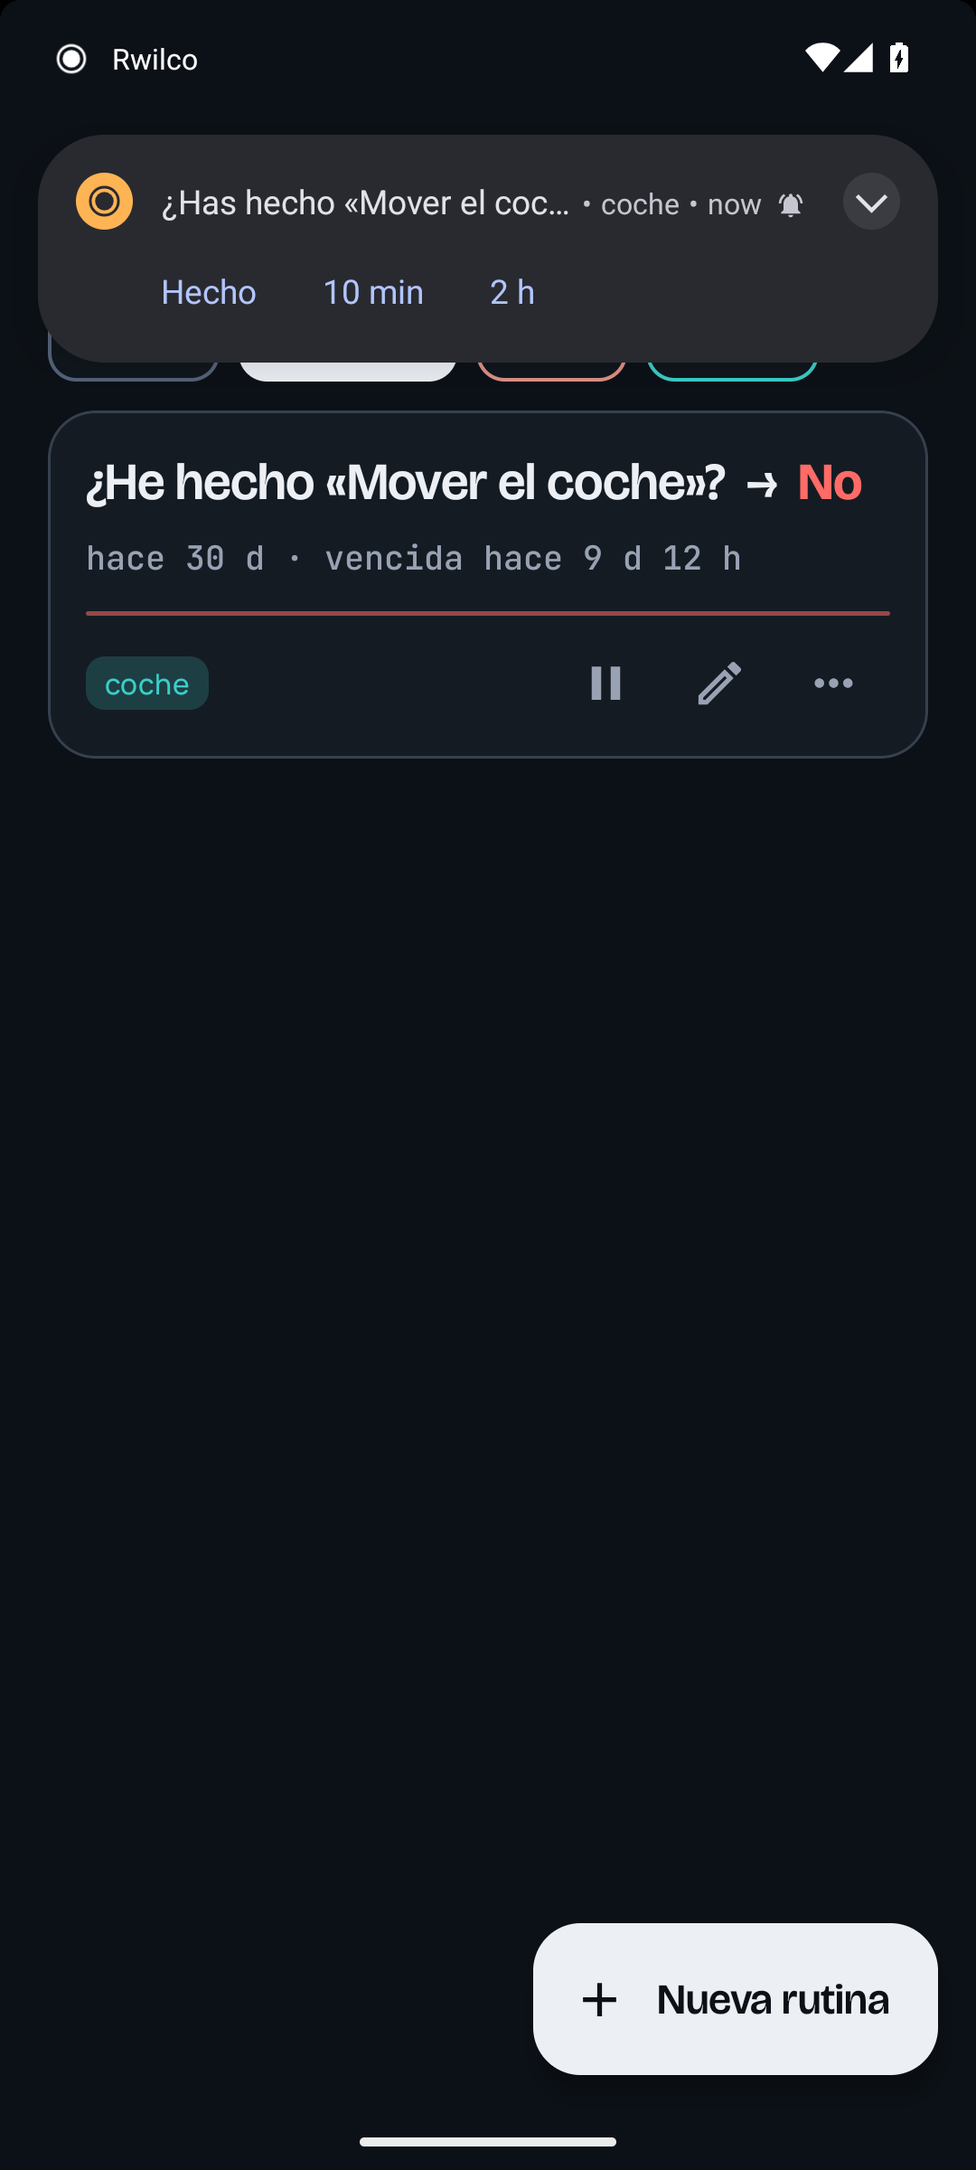
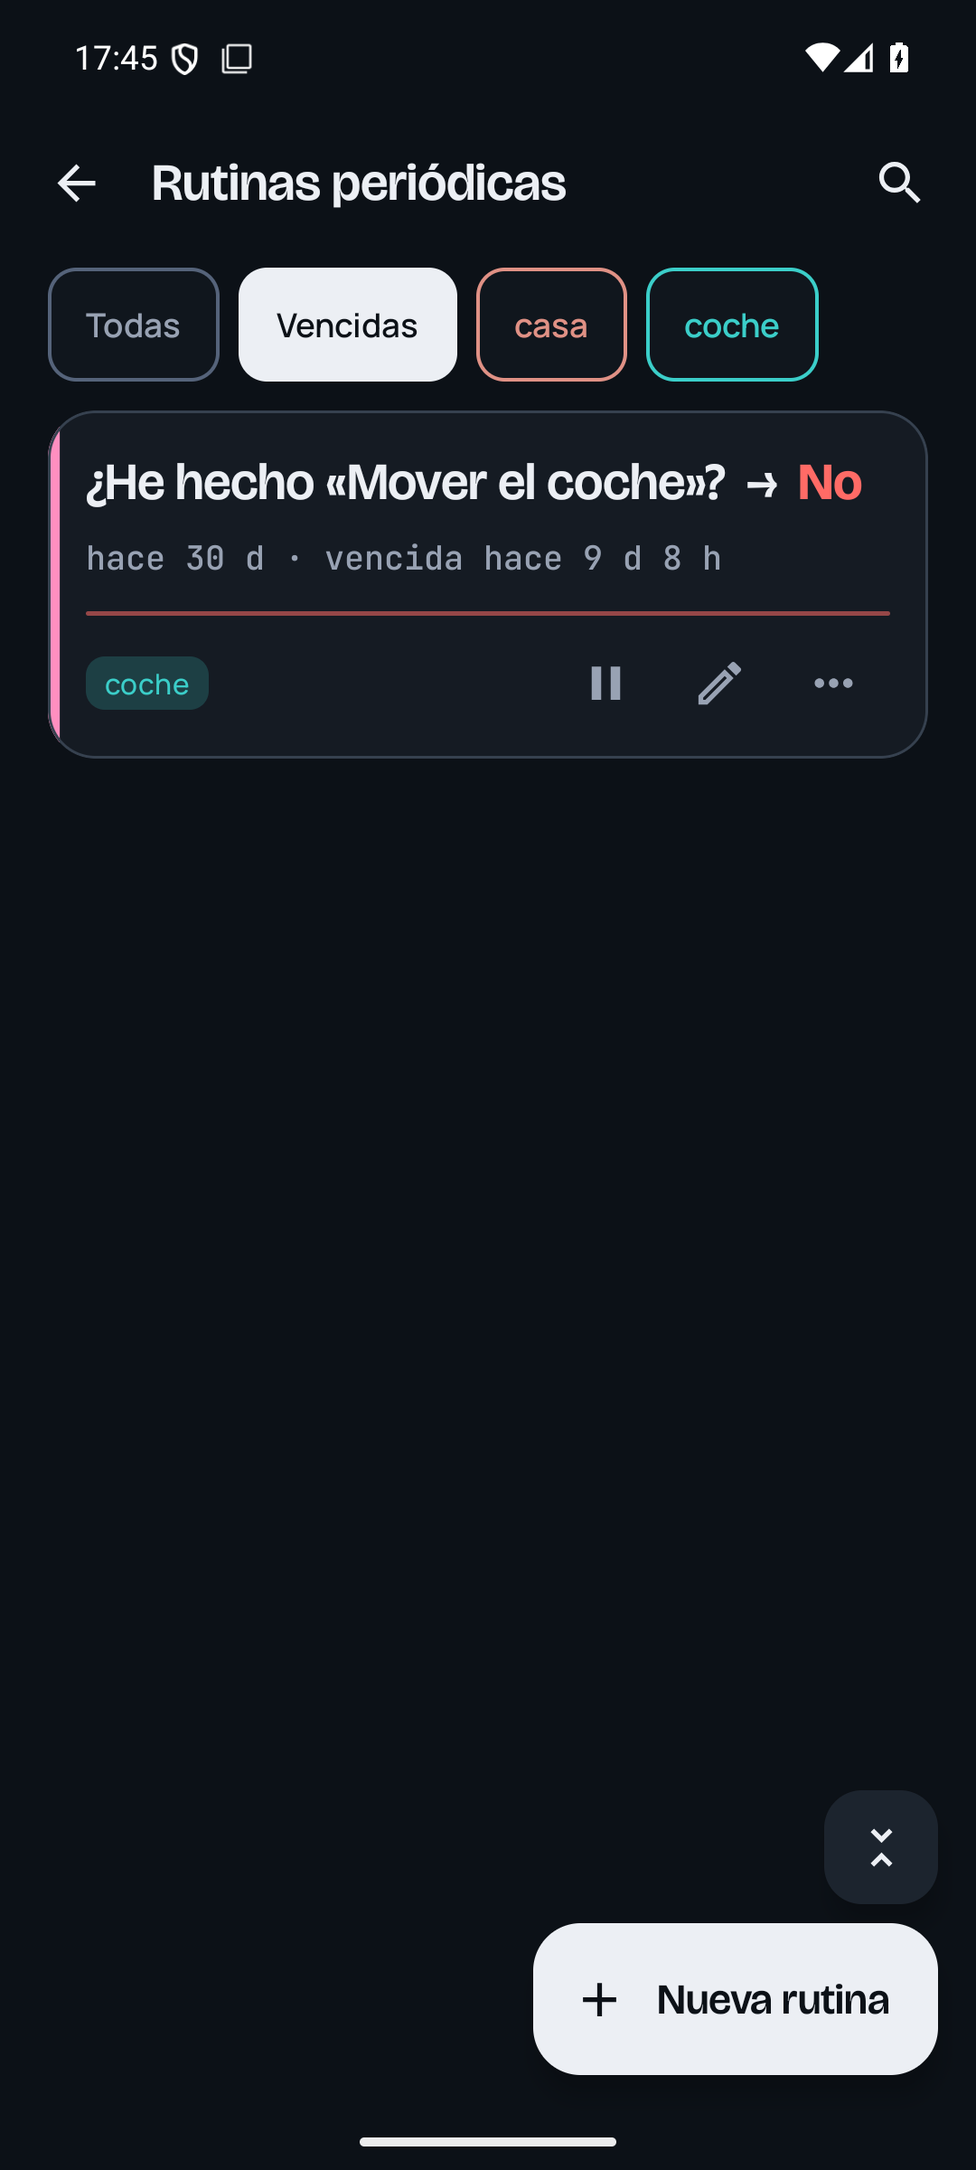
0.105.0: the routines fold away, and the screen has a colour of its own
Two things the owner asked for after a first look at the list.

- **The fold**, which is Home's and reuses every piece of it: a small
  button over "Nueva rutina" toggles `AppSettings.compactRoutines` (its
  own flag, because the two lists are read for different things), a tap
  on a card is the fold both ways, and the exceptions to the mode are a
  flipped set in the ViewModel through the same `shownOpen` Home uses. A
  folded routine is its words and the track of its plazo — no count, no
  controls, no tags: what a folded list answers is "how much is owed and
  how badly", and a column of tracks is exactly that. The form stays
  behind the pencil on the open card. Arriving from Home's overdue line
  opens the row it lands on.
- **The colour**: `routineColor` down the leading edge of every card
  (the rail `RwilcoCard` already draws for Home's tags) and in the track
  while the plazo is still running — red once it has run out, grey while
  paused. The screen was grey cards with a grey hairline each, which
  said nothing at all until you read it.

Claude-Session: https://claude.ai/code/session_01CYx8csJHXWQKThNn1UrwSw

diff --git a/app/src/main/kotlin/dev/rwilco/ui/routines/RoutinesScreen.kt b/app/src/main/kotlin/dev/rwilco/ui/routines/RoutinesScreen.kt
@@ -12,6 +12,7 @@ import androidx.compose.foundation.layout.calculateStartPadding
 import androidx.compose.foundation.layout.fillMaxSize
 import androidx.compose.foundation.layout.fillMaxWidth
 import androidx.compose.foundation.layout.height
+import androidx.compose.foundation.layout.sizeIn
 import androidx.compose.foundation.layout.heightIn
 import androidx.compose.foundation.layout.padding
 import androidx.compose.foundation.layout.safeDrawing
@@ -29,6 +30,8 @@ import androidx.compose.material.icons.outlined.Pause
 import androidx.compose.material.icons.outlined.PlayArrow
 import androidx.compose.material.icons.outlined.ErrorOutline
 import androidx.compose.material.icons.outlined.Search
+import androidx.compose.material.icons.outlined.UnfoldLess
+import androidx.compose.material.icons.outlined.UnfoldMore
 import androidx.compose.material.icons.outlined.SearchOff
 import androidx.compose.material3.ExtendedFloatingActionButton
 import androidx.compose.material3.Icon
@@ -38,6 +41,7 @@ import androidx.compose.material3.MaterialTheme
 import androidx.compose.material3.Scaffold
 import androidx.compose.material3.Surface
 import androidx.compose.material3.Text
+import androidx.compose.material3.SmallFloatingActionButton
 import androidx.compose.runtime.Composable
 import androidx.compose.runtime.LaunchedEffect
 import androidx.compose.runtime.getValue
@@ -78,6 +82,7 @@ import dev.rwilco.ui.home.SwipeableCard
 import dev.rwilco.ui.home.UndoDeleteRow
 import dev.rwilco.ui.theme.MonoStyles
 import dev.rwilco.ui.theme.Tokens
+import dev.rwilco.ui.theme.routineColor
 import dev.rwilco.ui.theme.tagColor
 import java.time.Clock
 import java.time.Duration
@@ -108,6 +113,8 @@ fun RoutinesScreen(
     onKeepAsPreset: (String) -> Unit,
 ) {
     val state by viewModel.state.collectAsStateWithLifecycle()
+    val compact by viewModel.compact.collectAsStateWithLifecycle()
+    val flippedRows by viewModel.flippedRows.collectAsStateWithLifecycle()
     val pendingDelete by viewModel.pendingDelete.collectAsStateWithLifecycle()
     val snoozeCustomMinutes by viewModel.snoozeCustomMinutes.collectAsStateWithLifecycle()
     val defaultTime by viewModel.defaultTime.collectAsStateWithLifecycle()
@@ -173,6 +180,9 @@ fun RoutinesScreen(
         // Everything the list draws above the rows, in the order it draws them.
         val leading = (if (filtersShown) 1 else 0) + (if (pendingDelete != null) 1 else 0)
         listState.animateScrollToItem(leading + row)
+        // And open, whatever the mode: Home's line named this one, so it is the one somebody
+        // came here to read.
+        viewModel.expandRow(focus)
         landed = true
     }
 
@@ -208,17 +218,35 @@ fun RoutinesScreen(
         },
         floatingActionButton = {
             val haptics = Tokens.haptics
-            // The screen's one primary action, in the thumb zone, wearing the inverted neutral
-            // every primary in the app wears: amber is what fires next, and this is a door.
-            ExtendedFloatingActionButton(
-                onClick = { haptics.perform(HapticFeedbackType.Confirm); onNew() },
-                icon = { Icon(Icons.Outlined.Add, contentDescription = null) },
-                text = { Text(stringResource(R.string.routines_new), style = MaterialTheme.typography.titleMedium) },
-                containerColor = MaterialTheme.colorScheme.onSurface,
-                contentColor = MaterialTheme.colorScheme.surface,
-                shape = MaterialTheme.shapes.large,
-                modifier = Modifier.heightIn(min = Tokens.sizes.primary),
-            )
+            Column(horizontalAlignment = Alignment.End, verticalArrangement = Arrangement.spacedBy(spacing.sm)) {
+                // Above "Nueva rutina", and the smaller of the two: this one is about *reading*
+                // the list and that one is the screen's job. The same button Home carries, in
+                // the same corner, saying the same words.
+                SmallFloatingActionButton(
+                    onClick = { haptics.perform(HapticFeedbackType.ContextClick); viewModel.setCompact(!compact) },
+                    containerColor = MaterialTheme.colorScheme.surfaceContainerHigh,
+                    contentColor = MaterialTheme.colorScheme.onSurface,
+                    shape = MaterialTheme.shapes.medium,
+                    modifier = Modifier.sizeIn(minWidth = Tokens.sizes.touch, minHeight = Tokens.sizes.touch),
+                ) {
+                    Icon(
+                        imageVector = if (compact) Icons.Outlined.UnfoldMore else Icons.Outlined.UnfoldLess,
+                        contentDescription = stringResource(if (compact) R.string.home_compact_off else R.string.home_compact_on),
+                    )
+                }
+                // The screen's one primary action, in the thumb zone, wearing the inverted
+                // neutral every primary in the app wears: amber is what fires next, and this
+                // is a door.
+                ExtendedFloatingActionButton(
+                    onClick = { haptics.perform(HapticFeedbackType.Confirm); onNew() },
+                    icon = { Icon(Icons.Outlined.Add, contentDescription = null) },
+                    text = { Text(stringResource(R.string.routines_new), style = MaterialTheme.typography.titleMedium) },
+                    containerColor = MaterialTheme.colorScheme.onSurface,
+                    contentColor = MaterialTheme.colorScheme.surface,
+                    shape = MaterialTheme.shapes.large,
+                    modifier = Modifier.heightIn(min = Tokens.sizes.primary),
+                )
+            }
         },
     ) { padding ->
         val direction = LocalLayoutDirection.current
@@ -284,7 +312,13 @@ fun RoutinesScreen(
                     )
                 }
             }
-            items(state.rows, key = { it.id }, contentType = { "routine" }) { row ->
+            items(
+                state.rows,
+                key = { it.id },
+                // Two shapes, two content types: a folded row and an open one recycle nothing
+                // useful from each other.
+                contentType = { if (compact != (it.id in flippedRows)) "routine-compact" else "routine" },
+            ) { row ->
                 SwipeableCard(
                     onDone = { viewModel.markDone(row.id) },
                     onDelete = { viewModel.delete(row.id) },
@@ -293,6 +327,8 @@ fun RoutinesScreen(
                     RoutineCard(
                         row = row,
                         now = now,
+                        compact = compact != (row.id in flippedRows),
+                        onToggleCompact = { viewModel.flipRow(row.id) },
                         onOpen = { onOpen(row.id) },
                         onPause = { viewModel.togglePause(row.id, row.paused) },
                         onMore = { actingOn = row.id },
@@ -365,6 +401,18 @@ private val RoutineFilter.key: String
  * One routine: the question, the answer, the count, the track, the tags. The answer is set in
  * the words' own type at the end of the question, because it is part of the sentence; "No"
  * wears the error ink, which is what "the span ran out" looks like everywhere in this app.
+ *
+ * **[compact] is the same routine as its words and its track** — no count, no controls, no
+ * tags. What a folded list answers is "how much is owed, and how badly", and the track answers
+ * exactly that: how far through the plazo each one is, in a column you read down rather than
+ * across. The tap is the fold, both ways, as it is on Home ([dev.rwilco.ui.home.ReminderCard]);
+ * the form stays behind the pencil on the open card, which is somewhere a thumb arrives on
+ * purpose.
+ *
+ * **The colour is the routines' own** ([routineColor]): the band down the leading edge, and the
+ * track while the plazo is still running. A screen made of grey cards with a grey hairline
+ * under each said nothing until you read it — and the one thing worth seeing without reading is
+ * which of them have run out, which is the track turning red.
  */
 @Composable
 private fun RoutineCard(
@@ -374,6 +422,9 @@ private fun RoutineCard(
     onPause: () -> Unit,
     onMore: () -> Unit,
     longClickLabel: String,
+    compact: Boolean = false,
+    /** The tap, on a card of either height: out on a folded one, away on an open one. */
+    onToggleCompact: () -> Unit = {},
 ) {
     val scheme = MaterialTheme.colorScheme
     val spacing = Tokens.spacing
@@ -400,7 +451,51 @@ private fun RoutineCard(
     // How far through the span it is: a full track is a "No".
     val progress = if (row.span.isZero) 1f else (Duration.between(row.anchor, now).toMillis().toFloat() / row.span.toMillis()).coerceIn(0f, 1f)
     val haptics = Tokens.haptics
-    RwilcoCard(onClick = onOpen, onLongClick = onMore, longClickLabel = longClickLabel) {
+    // A paused routine owes nothing while it rests, so it drops the colour with the rest of it.
+    val accent = if (row.paused) scheme.onSurfaceVariant else routineColor()
+    val track: @Composable (Modifier) -> Unit = { trackModifier ->
+        LinearProgressIndicator(
+            progress = { progress },
+            color = when {
+                row.paused -> scheme.outline
+                row.done -> accent
+                else -> scheme.error.copy(alpha = OVERDUE_TRACK_ALPHA)
+            },
+            trackColor = scheme.surfaceContainerHighest,
+            strokeCap = StrokeCap.Round,
+            drawStopIndicator = {},
+            modifier = trackModifier.fillMaxWidth().height(Tokens.strokes.strong),
+        )
+    }
+    if (compact) {
+        RwilcoCard(
+            onClick = onToggleCompact,
+            onLongClick = onMore,
+            longClickLabel = longClickLabel,
+            clickLabel = stringResource(R.string.card_expand),
+            rail = accent,
+        ) {
+            Column(modifier = Modifier.padding(horizontal = spacing.lg, vertical = spacing.md)) {
+                Text(
+                    text = row.text,
+                    style = MaterialTheme.typography.titleMedium,
+                    color = ink,
+                    maxLines = 1,
+                    overflow = TextOverflow.Ellipsis,
+                    modifier = Modifier.fillMaxWidth(),
+                )
+                track(Modifier.padding(top = spacing.sm))
+            }
+        }
+        return
+    }
+    RwilcoCard(
+        onClick = onToggleCompact,
+        onLongClick = onMore,
+        longClickLabel = longClickLabel,
+        clickLabel = stringResource(R.string.card_compact),
+        rail = accent,
+    ) {
         Column(Modifier.padding(start = spacing.lg, end = spacing.lg, top = spacing.lg, bottom = spacing.sm)) {
             // **The words get the whole width.** Boxed in beside three buttons the question
             // broke over three lines with a column of air down the right; the controls go to
@@ -427,15 +522,7 @@ private fun RoutineCard(
                 style = MonoStyles.date,
                 color = scheme.onSurfaceVariant,
             )
-            Spacer(Modifier.height(spacing.md))
-            LinearProgressIndicator(
-                progress = { progress },
-                color = if (row.done || row.paused) scheme.outline else scheme.error.copy(alpha = OVERDUE_TRACK_ALPHA),
-                trackColor = scheme.surfaceContainerHighest,
-                strokeCap = StrokeCap.Round,
-                drawStopIndicator = {},
-                modifier = Modifier.fillMaxWidth().height(Tokens.strokes.strong),
-            )
+            track(Modifier.padding(top = spacing.md))
             // The footer: the tags on the left, the three things a card can be told to do on
             // the right — the same three a reminder's card carries, and the same menu behind
             // the "⋯" that the held press opens.

diff --git a/app/src/main/kotlin/dev/rwilco/ui/routines/RoutinesViewModel.kt b/app/src/main/kotlin/dev/rwilco/ui/routines/RoutinesViewModel.kt
@@ -18,6 +18,7 @@ import dev.rwilco.model.dayShape
 import dev.rwilco.model.nextFire
 import dev.rwilco.model.moment
 import dev.rwilco.ui.home.UNDO_DELETE_MS
+import dev.rwilco.ui.home.shownOpen
 import kotlinx.coroutines.Dispatchers
 import kotlinx.coroutines.Job
 import kotlinx.coroutines.channels.Channel
@@ -105,6 +106,36 @@ class RoutinesViewModel(
     /** The hour a date with no time of its own means, which is what the calendar opens on. */
     val defaultTime: StateFlow<LocalTime> = settings.filterNotNull().map { it.defaultTime }
         .stateIn(viewModelScope, SharingStarted.WhileSubscribed(5_000), AppSettings().defaultTime)
+
+    /** The routines down to their words and their track; see [AppSettings.compactRoutines]. */
+    val compact: StateFlow<Boolean> = settings.filterNotNull().map { it.compactRoutines }
+        .stateIn(viewModelScope, SharingStarted.WhileSubscribed(5_000), AppSettings().compactRoutines)
+
+    /**
+     * The rows showing the *opposite* of the mode: open ones while the list is folded, folded
+     * ones while it is not. The exceptions to the mode rather than a state per row, exactly as
+     * Home keeps them ([dev.rwilco.ui.home.HomeViewModel.flippedCards], [shownOpen]) — screen
+     * state, because a routine opened out to read it is a thing somebody is doing now.
+     */
+    private val flipped = MutableStateFlow(emptySet<String>())
+    val flippedRows: StateFlow<Set<String>> = flipped
+
+    fun setCompact(compact: Boolean) {
+        // A toggle that left yesterday's exceptions behind would be a mode that does not quite
+        // do what it says.
+        flipped.value = emptySet()
+        viewModelScope.launch { store.update { it.copy(compactRoutines = compact) } }
+    }
+
+    /** One row in or out of step with the mode: the tap on a card, both ways. */
+    fun flipRow(id: String) {
+        flipped.value = if (id in flipped.value) flipped.value - id else flipped.value + id
+    }
+
+    /** One row open whatever the mode: what arriving from Home's overdue line asks for. */
+    fun expandRow(id: String) {
+        flipped.value = shownOpen(flipped.value, id, compact.value)
+    }
 
     /** What the search field types; blank is not searching. */
     fun search(words: String) { query.value = words }

diff --git a/app/src/androidTest/kotlin/dev/rwilco/ui/RoutinesTourTest.kt b/app/src/androidTest/kotlin/dev/rwilco/ui/RoutinesTourTest.kt
@@ -150,6 +150,17 @@ class RoutinesTourTest {
         rule.onNodeWithContentDescription(s(R.string.common_back)).performClick()
         rule.waitUntilShown(s(R.string.routines_question, plants))
 
+        // The fold, over "Nueva rutina": every routine down to its words and the track of its
+        // plazo, and a tap on one opens it back out on its own (0.105.0).
+        rule.onNodeWithContentDescription(s(R.string.home_compact_on)).performClick()
+        rule.waitUntilGone(s(R.string.routines_question, car))
+        rule.onNodeWithText(car, useUnmergedTree = true).assertIsDisplayed()
+        shot("routines-compact")
+        rule.onNodeWithText(car, useUnmergedTree = true).performClick()
+        rule.waitUntilShown(s(R.string.routines_question, car))
+        rule.onNodeWithContentDescription(s(R.string.home_compact_off)).performClick()
+        rule.waitUntilShown(s(R.string.routines_question, plants))
+
         // The three controls a routine's card carries, the way a reminder's does (0.99.0): the
         // "⋯" opens the same menu the held press does, and "posponer" now ends with a calendar.
         rule.onNodeWithContentDescription(s(R.string.card_more, car)).performClick()

diff --git a/core-model/src/test/kotlin/dev/rwilco/model/ReminderCodecTest.kt b/core-model/src/test/kotlin/dev/rwilco/model/ReminderCodecTest.kt
@@ -223,7 +223,7 @@ class ReminderCodecTest {
                 """{"id":"builtin-month","recurrence":{"type":"after","amount":1,"unit":"MONTHS","from":"DEALT","hour":{"type":"day_start"},"landing":"NEXT"},"name":"","uses":0,"lastUsedAt":null}],""" +
                 """"busyWatchNotice":false,"vibration":{"strength":"STRONG","rhythm":"PULSED"},""" +
                 """"alertSound":{"type":"system"},"insistentSound":null,"soundPlays":5,"soundGapMinutes":5,"alertStacking":"SEQUENTIAL","updatesWifiOnly":false,"updateChannel":"BETA","alertToHeadphones":true,"safetyNet":{"afterHours":24,"minCadenceMinutes":60,"fraction":10},""" +
-                """"snoozeCustomMinutes":30,"notificationSnoozes":["TEN_MINUTES","TWO_HOURS"],"dismissedAlertProblems":[],"compactHome":false,"disclaimerRead":false}""",
+                """"snoozeCustomMinutes":30,"notificationSnoozes":["TEN_MINUTES","TWO_HOURS"],"dismissedAlertProblems":[],"compactHome":false,"compactRoutines":false,"disclaimerRead":false}""",
             encoded,
         )
     }

diff --git a/core-model/src/main/kotlin/dev/rwilco/model/AppSettings.kt b/core-model/src/main/kotlin/dev/rwilco/model/AppSettings.kt
@@ -185,6 +185,14 @@ data class AppSettings(
      */
     val compactHome: Boolean = false,
     /**
+     * The same fold on the routines: a routine down to its words and the track of its plazo.
+     *
+     * Its own flag rather than [compactHome] because the two lists are read for different
+     * things — Home is "what have I got on today", the routines are "what is owed" — and
+     * somebody who wants one folded away has said nothing about the other.
+     */
+    val compactRoutines: Boolean = false,
+    /**
      * Whether the notice about what this app is has been silenced for good.
      *
      * False by default, and that is what makes it appear on a phone that already has the app:

diff --git a/app/src/main/kotlin/dev/rwilco/ui/settings/WhatsNew.kt b/app/src/main/kotlin/dev/rwilco/ui/settings/WhatsNew.kt
@@ -40,6 +40,7 @@ data class Release(val versionCode: Int, val name: String, @ArrayRes val bullets
  * brought the notes back, so a phone that last saw 0.20.0 is told once what happened since.
  */
 val RELEASES: List<Release> = listOf(
+    Release(versionCode = 159, name = "0.105.0", bulletsRes = R.array.whats_new_0_105_0),
     Release(versionCode = 158, name = "0.104.1", bulletsRes = R.array.whats_new_0_104_1),
     Release(versionCode = 157, name = "0.104.0", bulletsRes = R.array.whats_new_0_104_0),
     Release(versionCode = 156, name = "0.103.0", bulletsRes = R.array.whats_new_0_103_0),

diff --git a/ARCHITECTURE.md b/ARCHITECTURE.md
@@ -721,7 +721,18 @@ because that is what its chip would show.
   swipe to the left, held, deletes with Home's minute of undo (`UndoDeleteRow`); a tap opens the
   editor; a held press offers `ReminderActionsMenu` (pause, snooze where the deadline rang,
   clone, keep as preset). The chips are "todas", the app's own "vencidas" while any is, and the
-  routines' tags in their own colours; a filter on something no longer offered clears. "Nueva
+  routines' tags in their own colours; a filter on something no longer offered clears.
+  **The list folds** (0.105.0), the way Home's does and through the same pieces: a small button
+  over "Nueva rutina" toggles `AppSettings.compactRoutines` (its own flag — the two lists are
+  read for different things), a tap on a card is the fold both ways, and the exceptions to the
+  mode live in the ViewModel as a flipped set (`shownOpen`, shared with Home). A folded routine
+  is its words and the track of its plazo and nothing else: what a folded list answers is "how
+  much is owed, and how badly", which is exactly what a column of tracks says. Arriving from
+  Home's overdue line opens the row it landed on (`expandRow`).
+  **The screen carries the routines' own colour**: `routineColor` down the leading edge of every
+  card (`RwilcoCard(rail)`, as Home rails a card in its tag's colour) and in the track while the
+  plazo is still running — red once it has run out, grey while paused. Before that it was grey
+  cards with a grey hairline each, which said nothing until you read it. "Nueva
   rutina" opens the editor as a routine (`Routes.Editor(routine = true)`: a week since the last
   time, with `routineActions`), on a form that says so — see `Since` under **The model**. A tap on a routine's prompt (next release) lands here
   (`MainActivity.DESTINATION_ROUTINES`).
